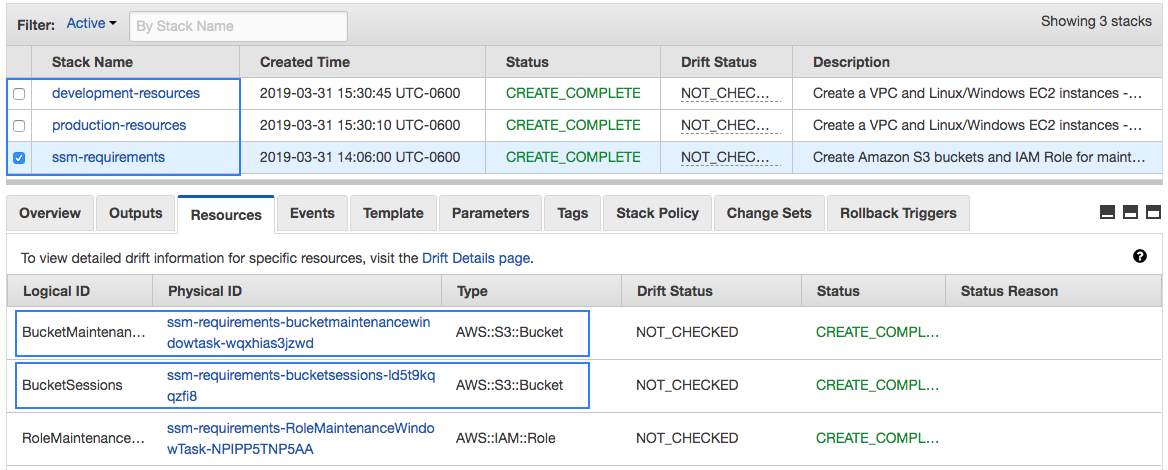
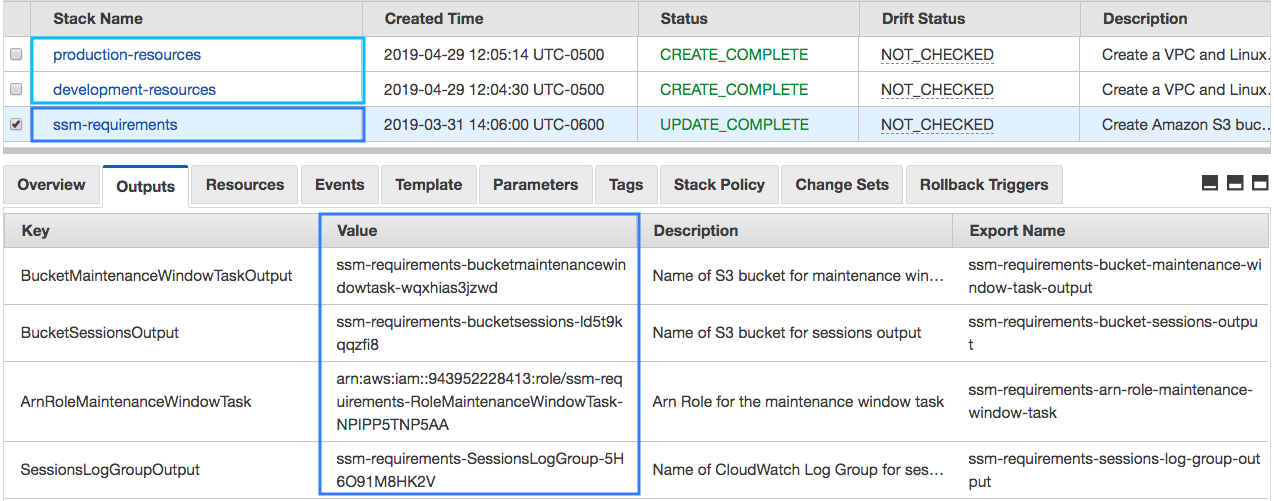
Template link

diff --git a/tutorials/preparing-the-environment-and-inventory.md b/tutorials/preparing-the-environment-and-inventory.md
@@ -30,7 +30,7 @@
 
   g\. Check the box `I acknowledge that AWS CloudFormation might create IAM resources.` and click **Create**.
 
-1.6\. Launch the [CloudFormation template AURBAC-AWS-SSM-Requirements.yaml](../AURBAC-AWS-SSM-Requirements.yaml) to create the S3 bucket and the role for the maintenance window task.
+1.6\. Download the [CloudFormation template AURBAC-AWS-SSM-Requirements.yaml](../AURBAC-AWS-SSM-Requirements.yaml) and launch to create the Amazon S3 buckets, CloudWatch Log Group and the IAM Role for the maintenance window task.
 
   a\. Open the AWS CloudFormation console at https://console.aws.amazon.com/cloudformation
   
@@ -46,6 +46,8 @@
 
   g\. Check the box `I acknowledge that AWS CloudFormation might create IAM resources.` and click **Create**.
 
+1.7\. Now you have two CloudFormation stacks with the services required as follows, for the **ssm-requirements** stack you will see some values in **Outputs** required further.
+
 ![Cloudformation Stacks](../images/stacks.png)
 
 ## 2. AWS Services created
@@ -59,7 +61,7 @@
 * An Amazon S3 bucket for the maintenance window task.
 * An IAM Role for the maintenance window task.
 * An Amazon S3 bucket for session manager.
-* An 
+* A CloudWatch Log Group for session manager.
 
 ![AWS Services](../images/aws-services.png)
 
